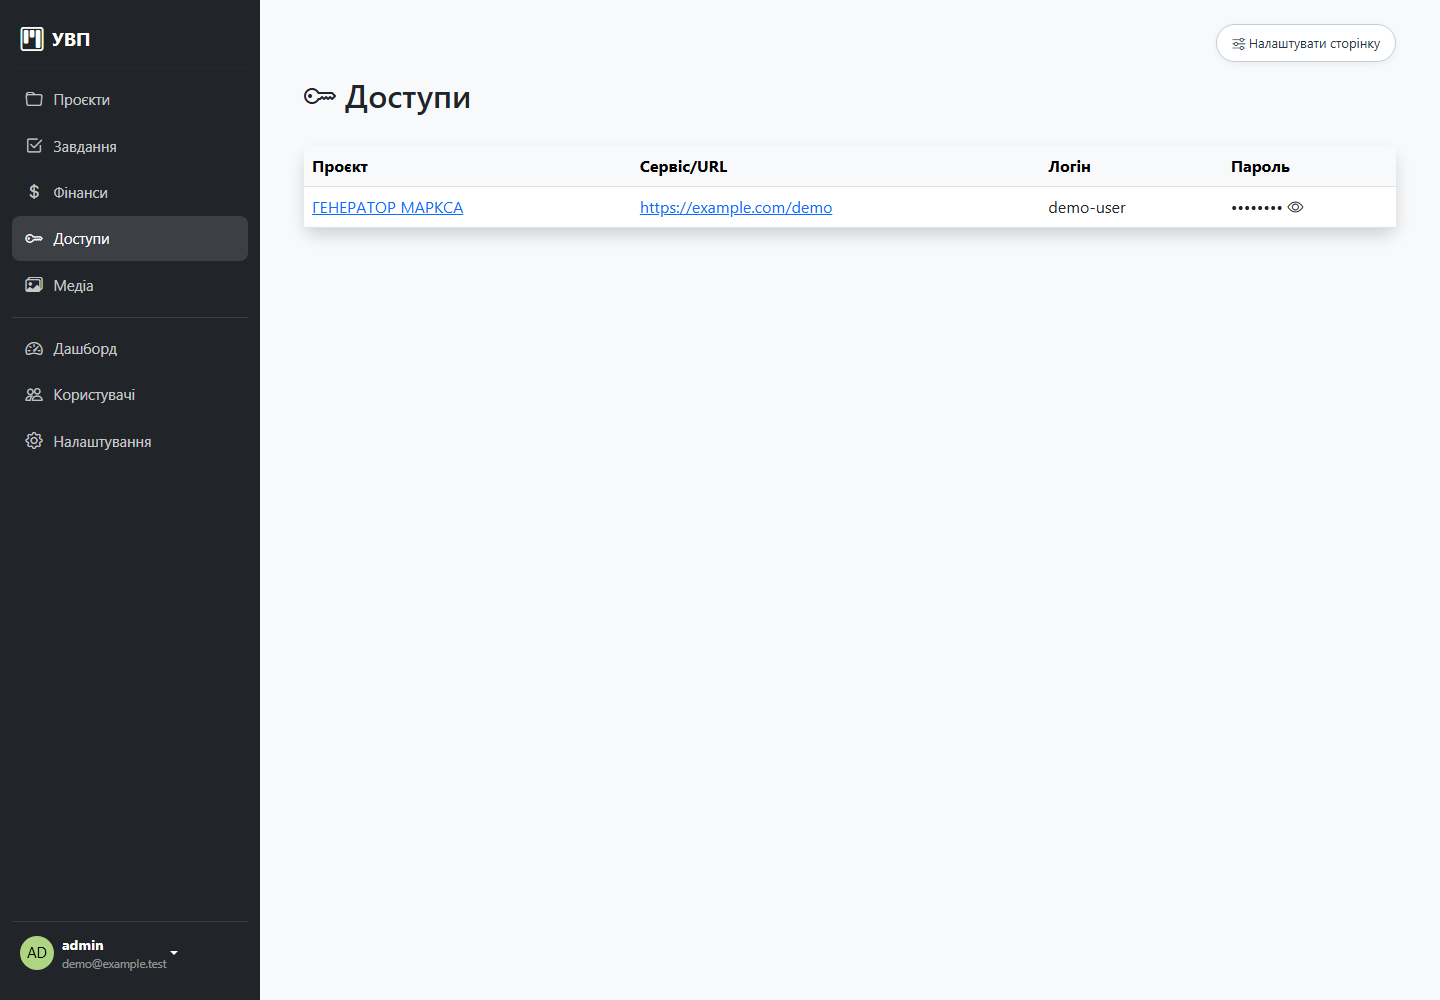
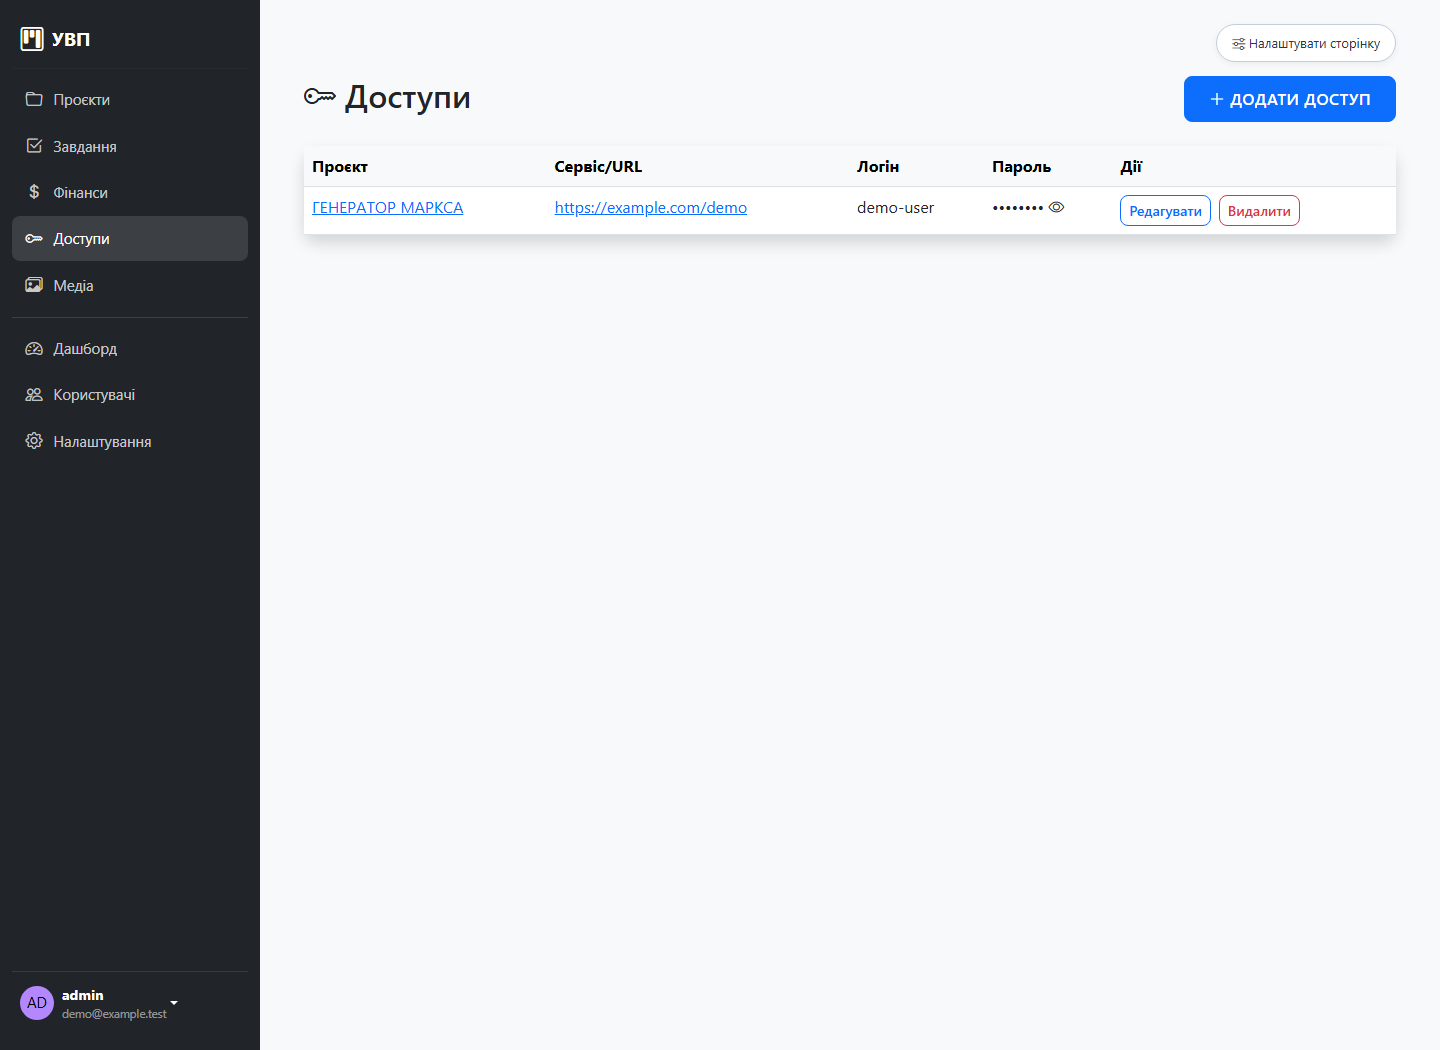
feat: manage project finances and access from lists and expand task table

diff --git a/templates/projects/project_detail.html b/templates/projects/project_detail.html
@@ -27,6 +27,9 @@
         }
 
         @media (max-width: 767.98px) {
+            .project-task-table td::before { flex: 0 0 90px; }
+            .project-task-table td { column-gap: 8px; }
+            .project-task-table .task-table-progress { flex: 1; min-width: 0; }
             .nav-tabs {
                 flex-wrap: nowrap;
                 overflow-x: auto;
@@ -263,20 +266,24 @@
                 {% endif %}
             </div>
             <div class="table-responsive">
-                <table class="table table-hover mb-0 align-middle">
+                <table class="table table-hover mb-0 align-middle project-task-table">
                     <thead class="table-light">
                     <tr>
                         <th>{{ _('Статус') }}</th>
                         <th>{{ _('Название') }}</th>
                         <th>{{ _('Исполнители') }}</th>
                         <th>{{ _('Время (План/Факт)') }}</th>
-                        <th style="width: 100px;"></th>
+                        <th>Прогрес</th>
+                        <th>Підзадачі</th>
+                        <th>Залишок роботи</th>
+                        <th>Дії</th>
                     </tr>
                     </thead>
                     <tbody>
-                    {% for task in project.tasks.all() %}
+                    {% for row in task_table_report.rows %}
+                        {% set task = row.task %}
                         <tr>
-                            <td>
+                            <td data-label="Статус">
                                 {% if task.status == 'done' %}
                                     <span class="badge bg-success">{{ _('Готово') }}</span>
                                 {% elif task.status == 'in_progress' %}
@@ -285,19 +292,32 @@
                                     <span class="badge bg-secondary">{{ task.get_status_display() }}</span>
                                 {% endif %}
                             </td>
-                            <td>
+                            <td data-label="Назва" style="min-width:200px;max-width:380px;overflow-wrap:anywhere;">
                                 <a href="{{ url('tasks:task_detail', pk=task.id) }}"
                                    class="text-decoration-none fw-bold">{{ task.title }}</a>
                             </td>
-                            <td>
-                                {% for user in task.u_users.all() %}
+                            <td data-label="Виконавці">
+                                {% for user in row.people %}
                                     <span class="badge bg-light text-dark border">{{ user.username }}</span>
+                                {% else %}<span class="small text-muted">Не призначено</span>
                                 {% endfor %}
                             </td>
-                            <td class="small">{{ task.estimated_time }} / {{ task.actual_time }}</td>
-                            <td>
+                            <td class="small" data-label="План / Факт">{{ task.estimated_time }} / {{ task.actual_time }} {{ _('ч.') }}</td>
+                            <td data-label="Прогрес" style="min-width:110px;">
+                                <div class="task-table-progress">
+                                <strong>{{ row.progress }}%</strong>
+                                <div class="progress mt-1" style="height:7px;" role="progressbar" aria-label="Прогрес завдання" aria-valuenow="{{ row.progress }}" aria-valuemin="0" aria-valuemax="100"><div class="progress-bar {{ 'bg-danger' if row.risk else 'bg-success' }}" style="width:{{ row.progress }}%"></div></div>
+                                </div>
+                            </td>
+                            <td data-label="Підзадачі"><a href="{{ url('tasks:task_detail', pk=task.pk) }}">{{ task.subtasks.count() }}</a></td>
+                            <td data-label="Залишок роботи">
+                                {% if row.unestimated %}<span class="text-muted">Не оцінено</span>{% else %}{{ '%g'|format(row.remaining_days) }} люд.-дн.{% endif %}
+                                {% if row.risk %}<span class="badge bg-danger">Ризик</span>{% endif %}
+                            </td>
+                            <td data-label="Дії">
                                 {% if is_owner %}
-                                    <div class="btn-group">
+                                    <div class="d-flex flex-wrap gap-2">
+                                        <a href="{{ url('tasks:subtask_create') }}?task={{ task.pk }}" class="btn btn-sm btn-outline-primary" title="Додати підзадачу">+ Підзадача</a>
                                         <a href="{{ url('tasks:task_edit', pk=task.id) }}"
                                            class="btn btn-sm btn-outline-secondary" title="{{ _('Редактировать') }}">
                                             <i class="bi bi-pencil"></i>
@@ -312,7 +332,7 @@
                         </tr>
                         {% else %}
                         <tr>
-                            <td colspan="5" class="text-center py-4 text-muted">{{ _('Задач пока нет') }}</td>
+                            <td colspan="8" class="text-center py-4 text-muted">{{ _('Задач пока нет') }}</td>
                         </tr>
                     {% endfor %}
                     </tbody>

diff --git a/templates/billing/billing_list.html b/templates/billing/billing_list.html
@@ -3,8 +3,11 @@
 {% block title %}{{ _('Финансы') }} - {{ _('УВП') }}{% endblock %}
 
 {% block content %}
-    <div class="d-flex justify-content-between align-items-center mb-4">
+    <div class="d-flex flex-wrap gap-2 justify-content-between align-items-center mb-4">
         <h1 class="h2"><i class="bi bi-currency-dollar"></i> {{ _('Финансы') }}</h1>
+        {% if user.is_superuser or user.is_admin() %}
+        <a class="btn btn-primary" href="{{ url('billing:billing_create') }}"><i class="bi bi-plus-lg"></i> Додати операцію</a>
+        {% endif %}
     </div>
 
     <div class="card">
@@ -17,6 +20,7 @@
                     <th data-label="{{ _('Сумма') }}">{{ _('Сумма') }}</th>
                     <th data-label="{{ _('Тип') }}">{{ _('Тип') }}</th>
                     <th data-label="{{ _('Описание') }}">{{ _('Описание') }}</th>
+                    {% if user.is_superuser or user.is_admin() %}<th>Дії</th>{% endif %}
                 </tr>
                 </thead>
                 <tbody>
@@ -34,14 +38,18 @@
                         </td>
                         <td data-label="{{ _('Тип') }}"><span class="badge bg-secondary">{{ billing.get_tag_display() }}</span></td>
                         <td data-label="{{ _('Описание') }}">{{ billing.description }}</td>
+                        {% if user.is_superuser or user.is_admin() %}
+                        <td data-label="Дії"><div class="d-flex flex-wrap gap-2"><a class="btn btn-sm btn-outline-primary" href="{{ url('billing:billing_edit', pk=billing.pk) }}">{{ _('Редактировать') }}</a><a class="btn btn-sm btn-outline-danger" href="{{ url('billing:billing_delete', pk=billing.pk) }}">{{ _('Удалить') }}</a></div></td>
+                        {% endif %}
                     </tr>
                     {% else %}
                     <tr>
-                        <td colspan="5" class="text-center py-3">{{ _('Нет записей') }}</td>
+                        <td colspan="{{ 6 if user.is_superuser or user.is_admin() else 5 }}" class="text-center py-3">{{ _('Нет записей') }}</td>
                     </tr>
                 {% endfor %}
                 </tbody>
             </table>
         </div>
     </div>
+    {% include 'includes/record_pagination.html' %}
 {% endblock %}

diff --git a/templates/access/access_list.html b/templates/access/access_list.html
@@ -3,8 +3,11 @@
 {% block title %}{{ _('Доступы') }} - {{ _('УВП') }}{% endblock %}
 
 {% block content %}
-    <div class="d-flex justify-content-between align-items-center mb-4">
+    <div class="d-flex flex-wrap gap-2 justify-content-between align-items-center mb-4">
         <h1 class="h2"><i class="bi bi-key"></i> {{ _('Доступы') }}</h1>
+        {% if user.is_superuser or user.is_admin() %}
+        <a class="btn btn-primary" href="{{ url('access:access_create') }}"><i class="bi bi-plus-lg"></i> Додати доступ</a>
+        {% endif %}
     </div>
 
     <div class="card">
@@ -16,6 +19,7 @@
                     <th data-label="{{ _('Сервис/URL') }}">{{ _('Сервис/URL') }}</th>
                     <th data-label="{{ _('Логин') }}">{{ _('Логин') }}</th>
                     <th data-label="{{ _('Пароль') }}">{{ _('Пароль') }}</th>
+                    {% if user.is_superuser or user.is_admin() %}<th>Дії</th>{% endif %}
                 </tr>
                 </thead>
                 <tbody>
@@ -32,16 +36,20 @@
                         </span>
                             <i class="bi bi-eye"></i>
                         </td>
+                        {% if user.is_superuser or user.is_admin() %}
+                        <td data-label="Дії"><div class="d-flex flex-wrap gap-2"><a class="btn btn-sm btn-outline-primary" href="{{ url('access:access_edit', pk=access.pk) }}">{{ _('Редактировать') }}</a><a class="btn btn-sm btn-outline-danger" href="{{ url('access:access_delete', pk=access.pk) }}">{{ _('Удалить') }}</a></div></td>
+                        {% endif %}
                     </tr>
                     {% else %}
                     <tr>
-                        <td colspan="4" class="text-center py-3">{{ _('Нет записей') }}</td>
+                        <td colspan="{{ 5 if user.is_superuser or user.is_admin() else 4 }}" class="text-center py-3">{{ _('Нет записей') }}</td>
                     </tr>
                 {% endfor %}
                 </tbody>
             </table>
         </div>
     </div>
+    {% include 'includes/record_pagination.html' %}
 
     <script>
         document.querySelectorAll('.masked-password').forEach(el => {

diff --git a/templates/billing/billing_form.html b/templates/billing/billing_form.html
@@ -10,7 +10,7 @@
                 <div class="card-body">
                     <form method="post">
                         <input type="hidden" name="csrfmiddlewaretoken" value="{{ csrf_token }}">
-                        <div class="d-none">{{ form.project }}</div>
+                        {% include 'includes/record_project_field.html' %}
 
                         <div class="row mb-3">
                             <div class="col-md-6">
@@ -36,6 +36,10 @@
                             <label class="form-label">{{ _('Описание') }}</label>
                             {{ form.description }}
                         </div>
+                        <div class="mb-3">
+                            <label class="form-label" for="{{ form.users.id_for_label }}">{{ _('Участники') }}</label>
+                            {{ form.users }}
+                        </div>
                         <div class="d-flex justify-content-between mt-4">
                             <button type="button" class="btn btn-secondary"
                                     onclick="history.back()">{{ _('Назад') }}</button>
@@ -44,10 +48,7 @@
                     </form>
                     {% if object %}
                         <div class="text-end mt-3 border-top pt-3">
-                            <form action="{{ url('billing:billing_delete', pk=object.pk) }}" method="post">
-                                <input type="hidden" name="csrfmiddlewaretoken" value="{{ csrf_token }}">
-                                <button type="submit" class="btn btn-outline-danger btn-sm">{{ _('Удалить') }}</button>
-                            </form>
+                            <a class="btn btn-outline-danger btn-sm" href="{{ url('billing:billing_delete', pk=object.pk) }}">{{ _('Удалить') }}</a>
                         </div>
                     {% endif %}
                 </div>

diff --git a/templates/access/access_form.html b/templates/access/access_form.html
@@ -10,7 +10,7 @@
                 <div class="card-body">
                     <form method="post">
                         <input type="hidden" name="csrfmiddlewaretoken" value="{{ csrf_token }}">
-                        <div class="d-none">{{ form.project }}</div>
+                        {% include 'includes/record_project_field.html' %}
 
                         <div class="row mb-3 g-3">
                             <div class="col-md-6">
@@ -54,12 +54,7 @@
                     </form>
                     {% if object %}
                         <div class="text-end mt-3">
-                            <form action="{{ url('access:access_delete', pk=object.pk) }}" method="post">
-                                <input type="hidden" name="csrfmiddlewaretoken" value="{{ csrf_token }}">
-                                <button type="submit" class="btn btn-outline-danger btn-sm">
-                                    <i class="bi bi-trash me-1"></i>{{ _('Удалить') }}
-                                </button>
-                            </form>
+                            <a class="btn btn-outline-danger btn-sm" href="{{ url('access:access_delete', pk=object.pk) }}">{{ _('Удалить') }}</a>
                         </div>
                     {% endif %}
                 </div>

diff --git a/templates/tasks/task_list.html b/templates/tasks/task_list.html
@@ -55,7 +55,7 @@
                             {% else %}<span class="small text-muted">Не призначено</span>{% endfor %}
                         </td>
                         <td data-label="{{ _('Время') }}">{{ task.estimated_time }} / {{ task.actual_time }} {{ _('ч.') }}</td>
-                        <td data-label="Дії"><div class="d-flex gap-2"><a class="btn btn-sm btn-outline-primary" href="{{ url('tasks:task_edit', pk=task.pk) }}">Змінити</a><a class="btn btn-sm btn-outline-secondary" href="{{ url('tasks:subtask_create') }}?task={{ task.pk }}">+ Підзадача</a></div></td>
+                        <td data-label="Дії"><div class="d-flex flex-wrap gap-2"><a class="btn btn-sm btn-outline-primary" href="{{ url('tasks:task_edit', pk=task.pk) }}">Змінити</a><a class="btn btn-sm btn-outline-secondary" href="{{ url('tasks:subtask_create') }}?task={{ task.pk }}">+ Підзадача</a><a class="btn btn-sm btn-outline-danger" href="{{ url('tasks:task_delete', pk=task.pk) }}">{{ _('Удалить') }}</a></div></td>
                     </tr>
                     {% else %}
                     <tr>

diff --git a/templates/access/access_confirm_delete.html b/templates/access/access_confirm_delete.html
@@ -9,6 +9,8 @@
                     </div>
                     <h3 class="mb-4">{{ _('Удалить доступ к') }} <br><span
                             class="text-primary">{{ object.url or object.description }}</span>?</h3>
+                    <p>{{ _('Проект') }}: <strong>{{ object.project.name }}</strong></p>
+                    <p>{{ _('Логин') }}: {{ object.login }}</p>
                     <form method="post" class="d-flex justify-content-center gap-3 mt-4">
                         <input type="hidden" name="csrfmiddlewaretoken" value="{{ csrf_token }}">
                         <a href="{{ url('projects:project_detail', pk=object.project.pk) }}"

diff --git a/templates/tasks/task_confirm_delete.html b/templates/tasks/task_confirm_delete.html
@@ -5,6 +5,8 @@
             <div class="card">
                 <div class="card-body text-center">
                     <h3>{{ _('Удалить задачу') }} {{ object.title }}?</h3>
+                    <p>{{ _('Проект') }}: <strong>{{ object.project.name }}</strong></p>
+                    <p>Разом із завданням буде видалено його підзадачі: {{ object.subtasks.count() }}.</p>
                     <form method="post">
                         <input type="hidden" name="csrfmiddlewaretoken" value="{{ csrf_token }}">
                         <button type="submit" class="btn btn-danger">{{ _('Удалить') }}</button>

diff --git a/templates/billing/billing_confirm_delete.html b/templates/billing/billing_confirm_delete.html
@@ -5,6 +5,8 @@
             <div class="card">
                 <div class="card-body text-center">
                     <h3>{{ _('Удалить операцию на сумму') }} {{ object.amount }}?</h3>
+                    <p>{{ _('Проект') }}: <strong>{{ object.project.name }}</strong></p>
+                    <p>{{ object.description }}</p>
                     <form method="post">
                         <input type="hidden" name="csrfmiddlewaretoken" value="{{ csrf_token }}">
                         <button type="submit" class="btn btn-danger">{{ _('Удалить') }}</button>

diff --git a/templates/includes/record_project_field.html b/templates/includes/record_project_field.html
@@ -1,0 +1,11 @@
+{% if form.errors %}
+<div class="alert alert-danger" role="alert">
+    {% for field in form %}{% for error in field.errors %}<div>{{ field.label }}: {{ error }}</div>{% endfor %}{% endfor %}
+    {% for error in form.non_field_errors() %}<div>{{ error }}</div>{% endfor %}
+</div>
+{% endif %}
+<div class="mb-3">
+    <label class="form-label" for="{{ form.project.id_for_label }}">{{ _('Проект') }}</label>
+    {{ form.project }}
+    <div class="form-text">Оберіть проєкт, до якого належить цей запис.</div>
+</div>

diff --git a/templates/includes/record_pagination.html b/templates/includes/record_pagination.html
@@ -1,0 +1,7 @@
+{% if is_paginated %}
+<nav class="d-flex flex-wrap justify-content-center align-items-center gap-3 mt-4" aria-label="Сторінки записів">
+    {% if page_obj.has_previous() %}<a class="btn btn-outline-primary" href="?page={{ page_obj.previous_page_number() }}">Назад</a>{% endif %}
+    <span>{{ page_obj.number }} / {{ paginator.num_pages }}</span>
+    {% if page_obj.has_next() %}<a class="btn btn-outline-primary" href="?page={{ page_obj.next_page_number() }}">Далі</a>{% endif %}
+</nav>
+{% endif %}

diff --git a/templates/tasks/task_detail.html b/templates/tasks/task_detail.html
@@ -17,6 +17,7 @@
                         {% if can_manage_task %}
                             <a href="{{ url('tasks:task_edit', pk=task.id) }}"
                                class="btn btn-sm btn-outline-primary ms-2">{{ _('Изменить') }}</a>
+                            <a href="{{ url('tasks:task_delete', pk=task.pk) }}" class="btn btn-sm btn-outline-danger ms-2">{{ _('Удалить') }}</a>
                         {% endif %}
                     </div>
                 </div>
